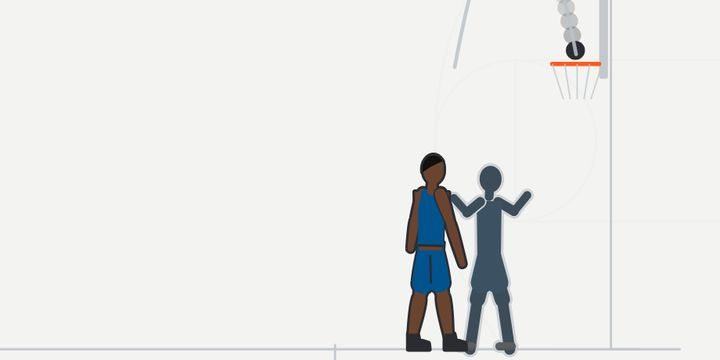
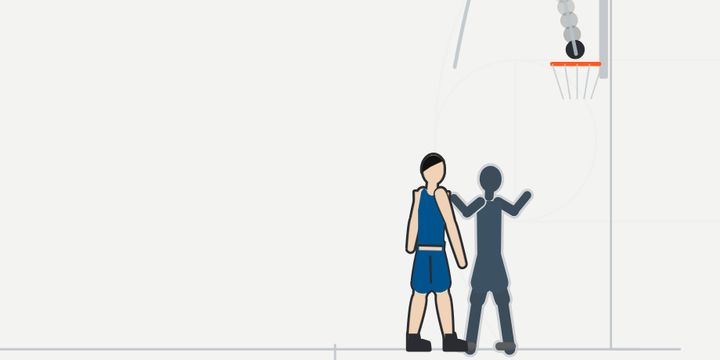
Recap DAL-DEN 2026-11-24: draw Cooper Flagg with a lighter skin tone (owner's correction) in the reel, card image and Short
Claude-Session: https://claude.ai/code/session_016Uqi7SYq2T4B7JqzAE9Qsr

Changed region(s): [[0.55, 0.4583, 0.6722, 0.7333], [0.55, 0.7944, 0.6417, 0.9472], [0.7944, 0.1528, 0.825, 0.1833]]

diff --git a/reels/2026-11-24-DAL-DEN/index.html b/reels/2026-11-24-DAL-DEN/index.html
@@ -112,7 +112,7 @@ html.embed .transport{flex:none}
     <p>Dallas has won four straight (AP; Field Level Media; Dallas Sports Journal) and is 3–0 in NBA Cup group play (Dallas Sports Journal); it clinches the group with a win at Phoenix on Friday or a Phoenix loss at Houston on Wednesday (Field Level Media; Denver Gazette). Denver scored 38 in the third quarter and got within 80–77 on DeMar DeRozan's three-point play with 1:11 left in it (AP; Dallas Sports Journal); Dallas then scored 13 of the next 15 points (Dallas Sports Journal). P.J. Washington returned after missing two games with an illness (AP; Dallas Sports Journal). Flagg's 11th 20-point double-double tied Dwight Howard for the second-most by a teenager (AP). Next: Dallas visits Phoenix on Friday (AP; Dallas Sports Journal); Denver visits Utah on Friday (AP; Denver Gazette).</p>
     <p>The play of the game is an original illustration of Cooper Flagg's 9-foot driving floater with 4:49 left that made it 106–88: StatMuse's play-by-play has "C. Flagg makes 9' driving floater" at 4:49 for 106–88, after his two free throws at 5:14 made it 104–88; Field Level Media: Flagg's floater and free throws pushed the lead to 18. So the board's Mavericks +16 to +18 is 104–88 to 106–88. No assist is listed and the defender isn't described, so it is drawn as the template's plain drive to a short finish. The figures are stylized and not traced from footage, and the spacing is not to scale.</p>
     <p>The music is an original beat made for this page. No existing recordings or melodies are used. This is an unofficial fan recap, not affiliated with the Dallas Mavericks or the NBA, which is why it carries a plain basketball mark and the team's colors but not the team's logo.</p>
-    <p>The player in the play of the game is drawn to Flagg's listed 6-foot-9 and 205 pounds (RealGM; Wikipedia), with arms at the default length because neither reports a wingspan, in the Mavericks' road kit with No. 32 (RealGM; Wikipedia) and the default darker skin tone, since he has no approved look yet. It is an original figure with a featureless face, not a portrait or a trace of footage.</p>
+    <p>The player in the play of the game is drawn to Flagg's listed 6-foot-9 and 205 pounds (RealGM; Wikipedia), with arms at the default length because neither reports a wingspan, in the Mavericks' road kit with No. 32 (RealGM; Wikipedia) and a lighter skin tone; he has no approved look yet. It is an original figure with a featureless face, not a portrait or a trace of footage.</p>
   </section>
 </div>
 
@@ -458,7 +458,7 @@ html.embed .transport{flex:none}
       },
     };
   }
-  const STAR_BUILD = {"tall": 1.0385, "ape": 1.0, "mass": 0.9582, "skin": "#6b4430", "hairColor": "#121010"};
+  const STAR_BUILD = {"tall": 1.0385, "ape": 1.0, "mass": 0.9582, "skin": "#f0d2b6", "hairColor": "#121010"};
   function scenePlay(L, g, defs) {
     const {W, H, M, fs, P} = L;
     const k = P ? 0.82 : 1;

diff --git a/src/anim/short-2026-11-24-DAL-DEN.html b/src/anim/short-2026-11-24-DAL-DEN.html
@@ -39,7 +39,7 @@ svg{display:block;width:100%;height:auto}
 <script>
 if (/[?&]short=1/.test(location.search)) document.documentElement.classList.add('short');
 (() => {
-  const C = {"out": "short-2026-11-24-DAL-DEN.html", "team": "DAL", "home": false, "number": "32", "player": "Cooper Flagg", "play_type": "drive", "build": {"tall": 1.0385, "ape": 1.0, "mass": 0.9582, "skin": "#6b4430", "hairColor": "#121010"}, "build_note": "Listed 6-9, 205 lb (RealGM, Wikipedia); no sourced wingspan; No. 32 (RealGM, Wikipedia)", "kicker": "MAVERICKS 120 · NUGGETS 101 · NOV 24", "hook": ["Cooper Flagg's floater", "for an 18-point lead"], "clock": "Q4 · 4:49", "us": "DAL", "them": "DEN", "score_before": [104, 88], "score_make": [106, 88], "stamp": "FLOATER", "beat": ["106–88 with 4:49 left.", "Dallas led by as many as 22."], "final": {"label": "FINAL", "us": "Mavericks", "them": "Nuggets", "us_pts": 120, "them_pts": 101}, "star": {"name": "Cooper Flagg", "big": 24, "big_label": "points and 12 assists", "lines": ["8 of 17, 7 of 9 at the line", "12 assists tied his career high"]}, "story": "Denver got within 3 late in the third. Dallas answered and won by 19, its fourth straight win.", "aria": "Animated Short: Cooper Flagg's 9-foot driving floater with 4:49 left that made it 106 to 88 for the Mavericks at Denver. Mavericks win 120 to 101. An original illustration, not traced from footage, not to scale.", "kit": {"jersey": "#00538C", "number": "#FFFFFF"}, "accent": "#FF5A1F"};
+  const C = {"out": "short-2026-11-24-DAL-DEN.html", "team": "DAL", "home": false, "number": "32", "player": "Cooper Flagg", "play_type": "drive", "build": {"tall": 1.0385, "ape": 1.0, "mass": 0.9582, "skin": "#f0d2b6", "hairColor": "#121010"}, "build_note": "Listed 6-9, 205 lb (RealGM, Wikipedia); no sourced wingspan; No. 32 (RealGM, Wikipedia)", "kicker": "MAVERICKS 120 · NUGGETS 101 · NOV 24", "hook": ["Cooper Flagg's floater", "for an 18-point lead"], "clock": "Q4 · 4:49", "us": "DAL", "them": "DEN", "score_before": [104, 88], "score_make": [106, 88], "stamp": "FLOATER", "beat": ["106–88 with 4:49 left.", "Dallas led by as many as 22."], "final": {"label": "FINAL", "us": "Mavericks", "them": "Nuggets", "us_pts": 120, "them_pts": 101}, "star": {"name": "Cooper Flagg", "big": 24, "big_label": "points and 12 assists", "lines": ["8 of 17, 7 of 9 at the line", "12 assists tied his career high"]}, "story": "Denver got within 3 late in the third. Dallas answered and won by 19, its fourth straight win.", "aria": "Animated Short: Cooper Flagg's 9-foot driving floater with 4:49 left that made it 106 to 88 for the Mavericks at Denver. Mavericks win 120 to 101. An original illustration, not traced from footage, not to scale.", "kit": {"jersey": "#00538C", "number": "#FFFFFF"}, "accent": "#FF5A1F"};
   const NS = 'http://www.w3.org/2000/svg';
   const clamp = (v) => Math.max(0, Math.min(1, v));
   const ease = (v) => 1 - Math.pow(1 - v, 3);
